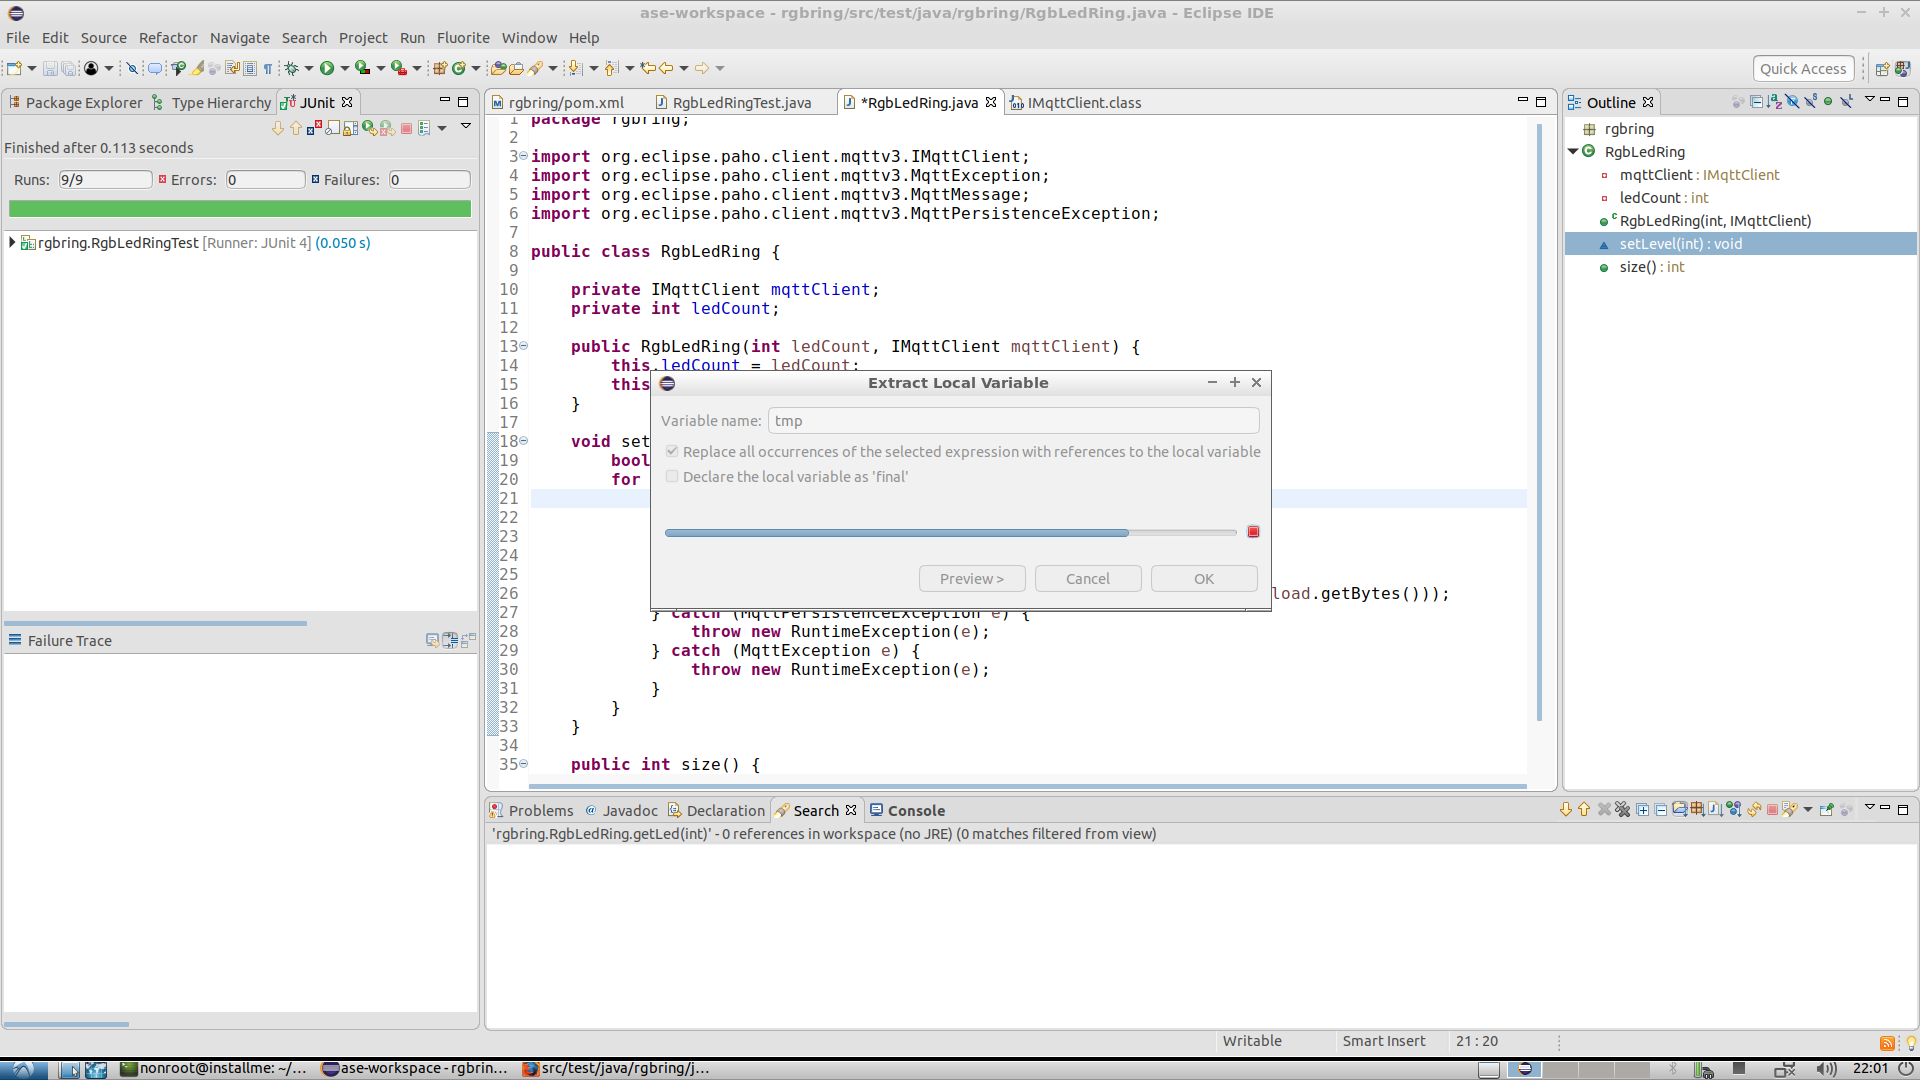
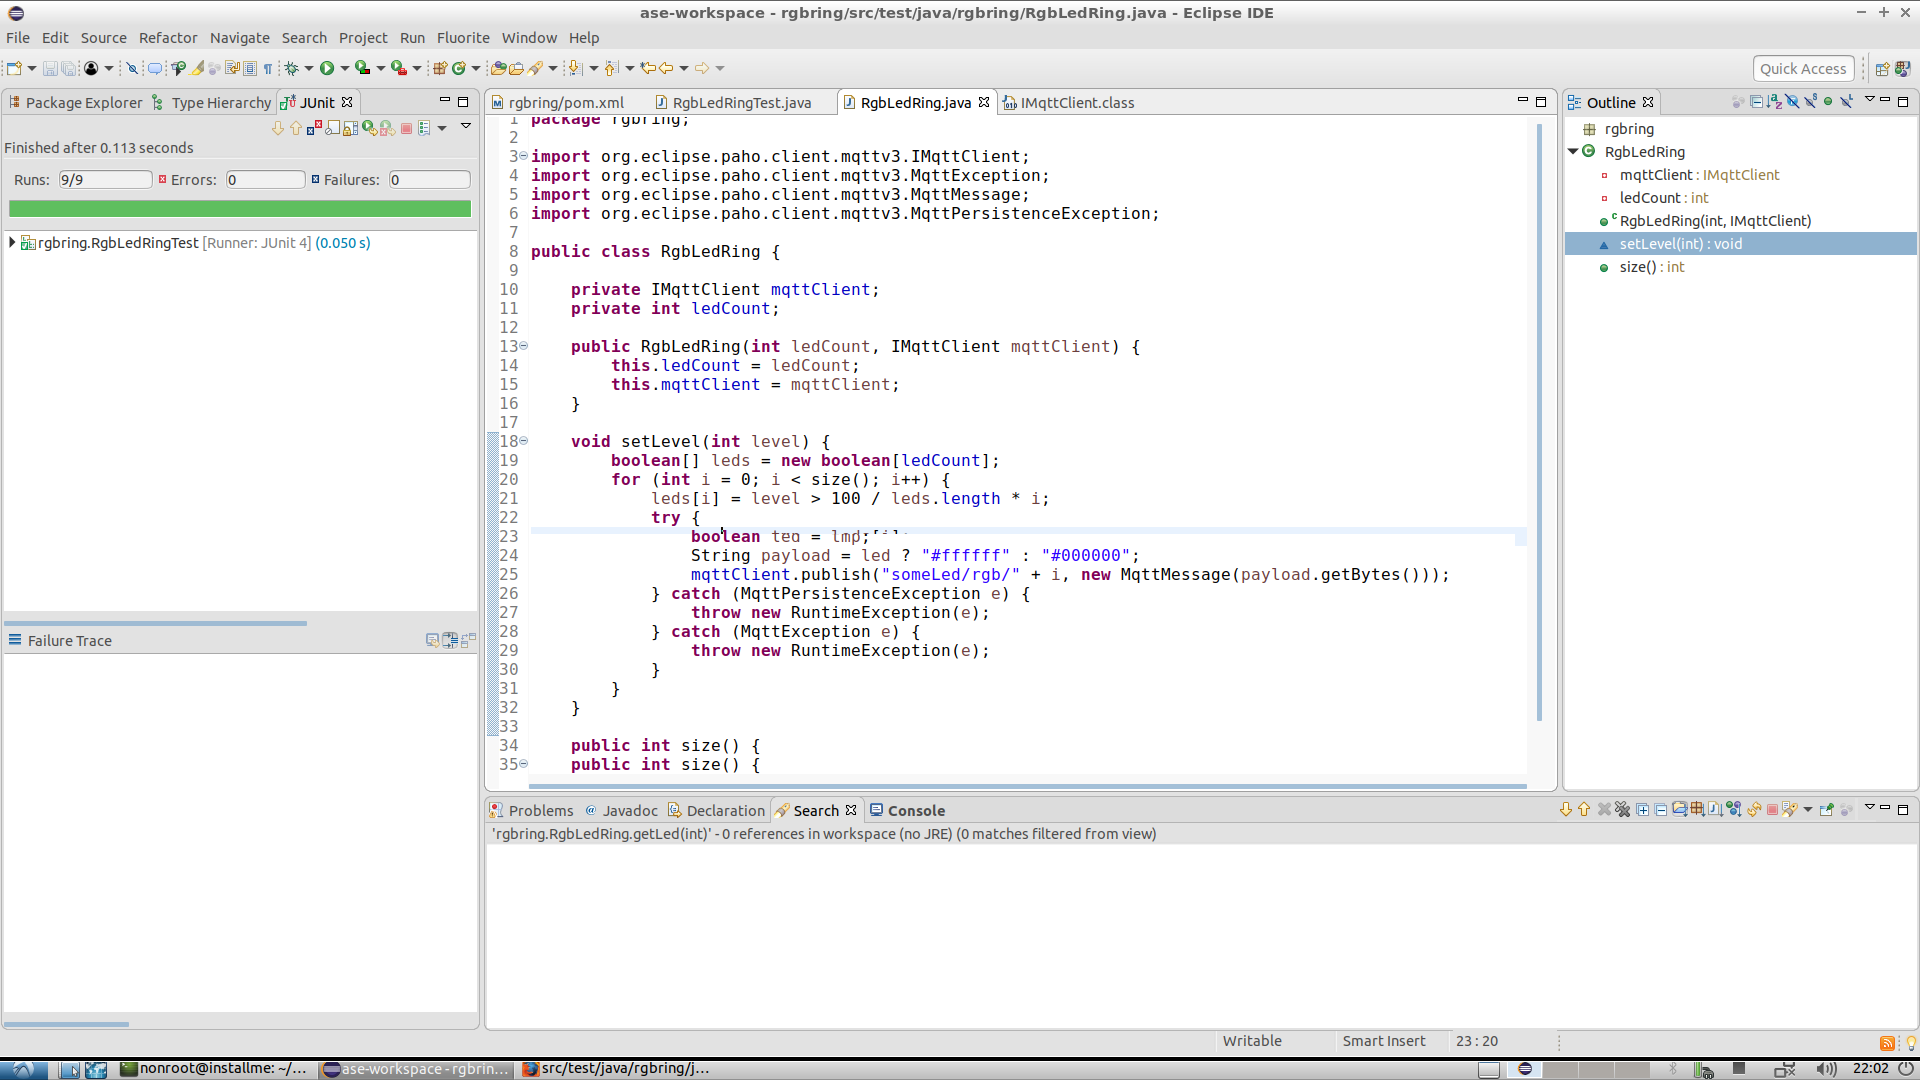
autocommit on change

diff --git a/src/test/java/rgbring/RgbLedRing.java b/src/test/java/rgbring/RgbLedRing.java
@@ -20,8 +20,7 @@ public class RgbLedRing {
 		for (int i = 0; i < size(); i++) {
 			leds[i] = level > 100 / leds.length * i;
 			try {
-				boolean tmp = leds[i];
-				boolean led = tmp;
+				boolean led = leds[i];
 				String payload = led ? "#ffffff" : "#000000";
 				mqttClient.publish("someLed/rgb/" + i, new MqttMessage(payload.getBytes()));
 			} catch (MqttPersistenceException e) {
